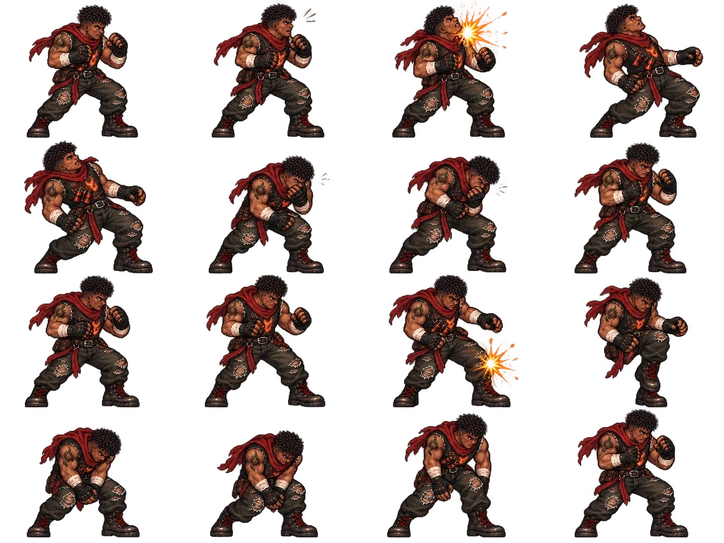
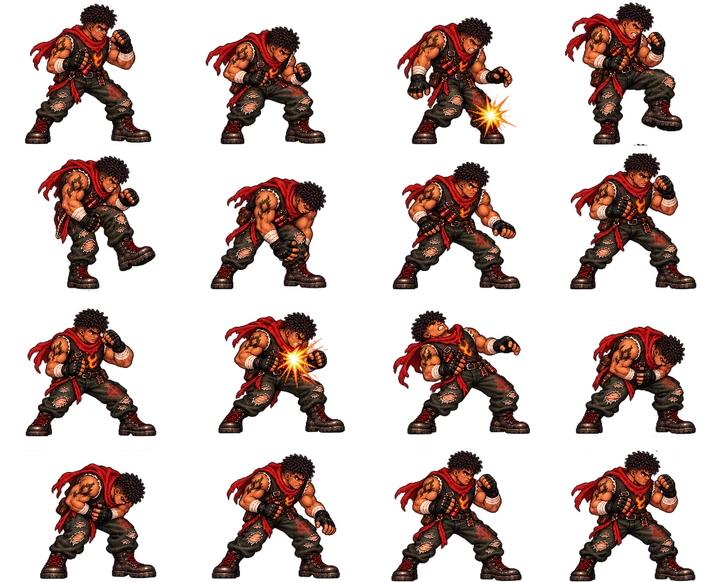
fix(gangues): FaiscaDanoNormal.png com mesmo caso de linhas desiguais (Isaias corrigiu perna faltando na arte) + v10.280.196/v3.27.4
Mesmo padrao das duas correcoes anteriores (Catraca v3.27.2, Faisca
ataqueNormal v3.27.3). Isaias tambem aproveitou pra corrigir uma perna
que estava faltando em uma das poses. Numeros de corte: y=291/565,5/821,5
(alturas reais 291/275/256/264px). Pad+halve+webp: canvas reconstruido
1448x1164, webp final 724x582, frameH = 145.5.

diff --git a/src/config/version.js b/src/config/version.js
@@ -8,13 +8,13 @@
  */
 
  // ── Site ──────────────────────────────────────────
-export const SITE_VERSION = '10.280.195' // fix: LDI Gangues - FaiscaSocoNormal.png tambem tinha linhas de altura desigual (mesmo caso da Catraca em v10.280.194) - Isaias mediu no Photoshop (277.5/580.5/802), corrigido com o mesmo pad+halve+webp. Ver GANGUES_VERSION.
+export const SITE_VERSION = '10.280.196' // fix: LDI Gangues - FaiscaDanoNormal.png tambem tinha linhas desiguais (Isaias corrigiu uma perna faltando na arte e mandou os numeros: 291/565.5/821.5) - mesmo pad+halve+webp. Ver GANGUES_VERSION.
 
 // ── Games ─────────────────────────────────────────
 export const PP_VERSION        = '2.3.1'  // Pesadelo Particular — fix: guest i18n keys movidas para o namespace pp em pt/en/es.json
 export const LDI_VERSION       = '2.0.1'  // Lendas do LDI — guest aviso melhorado no lobby (título, texto explicativo, link cadastro)
 export const JACK_VERSION      = '5.3.2'  // Jack Dream Beer — correção de encoding em comentário
-export const GANGUES_VERSION   = '3.27.3' // fix: mesmo caso da Catraca (v3.27.2) - FaiscaSocoNormal.png tambem tem linhas de altura desigual. Isaias mediu no Photoshop (y=277,5/580,5/802) e mandou os numeros direto; confirmado por alpha pixel a pixel (baixa contagem de pixel opaco exatamente nesses pontos). Alturas reais 278/303/221/284px. Mesma tecnica pad+halve+webp: recorta cada linha na altura real, completa com padding ate a maior (303px). Canvas reconstruido 1448x1212, webp final 724x606, frameH = 606/4 = 151.5. Confirmado ao vivo pelo Isaias ("funcinou").
+export const GANGUES_VERSION   = '3.27.4' // fix: mesmo caso das anteriores (v3.27.2/3.27.3) - FaiscaDanoNormal.png tambem com linhas desiguais; Isaias corrigiu uma perna que faltava na arte E mandou os numeros novos (y=291/565,5/821,5). Alturas reais 291/275/256/264px. Pad+halve+webp: canvas reconstruido 1448x1164, webp final 724x582, frameH = 582/4 = 145.5.
 
 export const TAMA_VERSION      = '3.4.1' // Tamagoshi LDI — preserva oferta inicial ao voltar do gacha pago
 export const DUELO_VERSION     = '2.8.1'  // Duelo LDI — TrapActivator: CSS extraído de inline para arquivo próprio

diff --git a/src/pages/games/Gangues/data/ganguesCombatAnimations.js b/src/pages/games/Gangues/data/ganguesCombatAnimations.js
@@ -230,9 +230,12 @@ const DADOS_POR_SLUG = {
       sons: { golpes: [{ frame: 7, arquivo: som('trinca-soco') }] },
     },
     dano: {
-      // Fonte 1448×1086 → webp 724×543 → frameH real = 135.75.
+      // Mesmo caso de linhas desiguais (v3.27.3) — Isaias também corrigiu
+      // uma perna faltando nessa folha e mandou os números novos:
+      // y=291/565,5/821,5. Alturas reais 291/275/256/264px. Canvas
+      // reconstruído 1448×1164, webp final 724×582 → frameH = 145.5.
       // Flashes na folha — quadros 3 (linha 1 col 3) e 11 (linha 3 col 3).
-      frameW: 181, frameH: 135.75, cols: 4, rows: 4, frames: 16, frameMs: 80,
+      frameW: 181, frameH: 145.5, cols: 4, rows: 4, frames: 16, frameMs: 80,
       sons: {
         golpes: [
           { frame: 3, arquivo: som('muro-soco1') },

diff --git a/SITE_MAP.md b/SITE_MAP.md
@@ -1,7 +1,7 @@
 # ILLUSIONFIGHT.COM — MAPA DO SITE E DO PROJETO
 
 > Referência do estado atual do projeto para navegação humana e contexto de IA.
-> Atualizado em 2026-09-18 — `SITE_VERSION` **10.280.195**.
+> Atualizado em 2026-09-18 — `SITE_VERSION` **10.280.196**.
 > Histórico de tarefas, bugfixes e pendências não pertence a este documento.
 > Regras de trabalho, arquivos proibidos e decisões arquiteturais: `AGENTS.md`.
 
@@ -390,11 +390,11 @@ Fonte única: `src/config/version.js`. Esta tabela registra somente a identifica
 
 | Constante | Módulo | Versão |
 |---|---|---:|
-| `SITE_VERSION` | Site global | **10.280.195** |
+| `SITE_VERSION` | Site global | **10.280.196** |
 | `PP_VERSION` | Pesadelo Particular | 2.3.1 |
 | `LDI_VERSION` | Lendas do LDI | 2.0.1 |
 | `JACK_VERSION` | Jack Dream Beer | 5.3.2 |
-| `GANGUES_VERSION` | LDI Gangues | 3.27.3 |
+| `GANGUES_VERSION` | LDI Gangues | 3.27.4 |
 | `TAMA_VERSION` | Tamagoshi LDI | 3.4.1 |
 | `DUELO_VERSION` | Duelo LDI | 2.8.1 |
 | `MINIGAMES_VERSION` | MiniGames | 4.3.6 |
